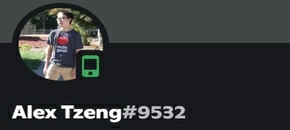
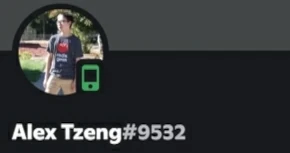
chore: fix the aspect ratio of member thumbnails

diff --git a/css/member.css b/css/member.css
@@ -12,6 +12,8 @@ section.member-intro div.member-item {
 
 img.thumbnails {
   width: 100%;
+  object-fit: contain;
+  aspect-ratio: 29 / 13;
 }
 
 section.member-intro div.desc {
